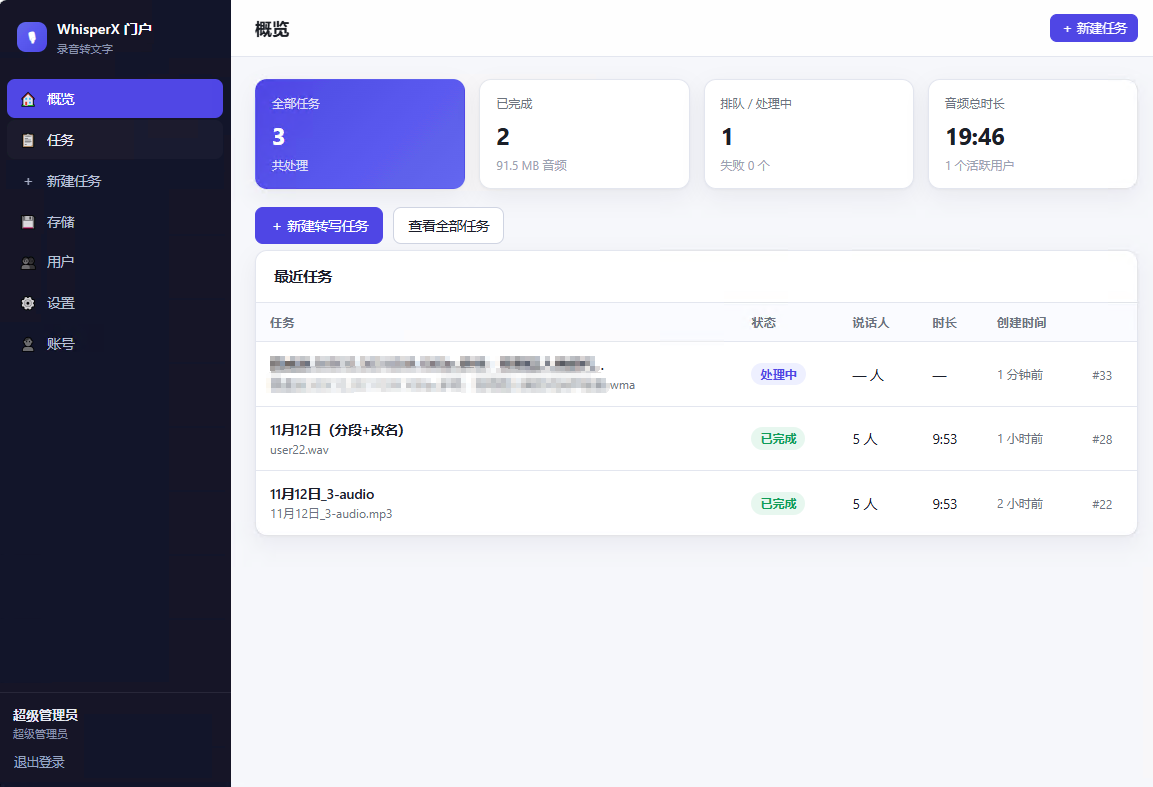
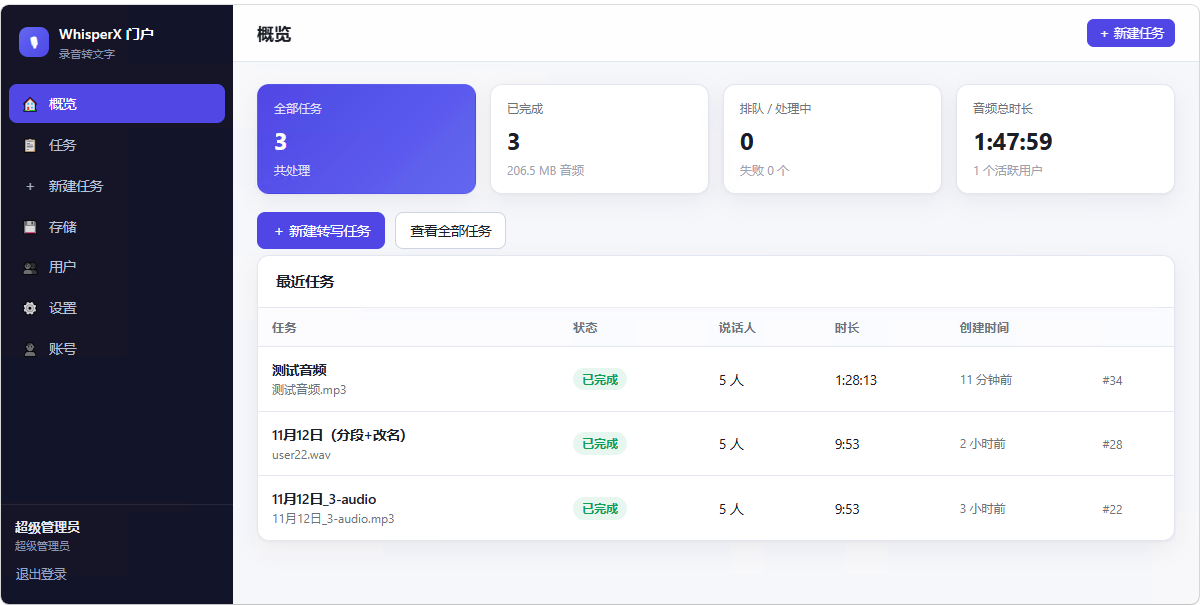
docs: 补全 8 个页面的界面截图并重写预览章节
覆盖概览、任务列表、新建任务、转写结果、修改说话人名字、
存储管理、用户管理、系统设置，按使用流程组织。

转写结果一张换成完整转写后的效果（1:28 音频 / 561 段 / 5 人），
能看出播放条、说话人筛选、发言占比和带标点的转写文本。

diff --git a/README.md b/README.md
@@ -63,18 +63,66 @@ npm start
 | **设置** | ASR 地址、默认模型、术语词典、存储配额（管理员） |
 | **账号** | 改自己的密码 |
 
+## 界面预览
+
 ### 概览
 
-任务统计、累计音频时长，以及最近的任务列表。
+任务总数、累计音频时长、排队/失败情况，以及最近的任务。
 
-![概览页](docs/images/dashboard.png)
+![概览](docs/images/dashboard.png)
 
-### 任务详情
+### 任务列表
 
-顶部是播放条，与下方文字双向联动：播放时自动高亮当前句并滚动跟随，
-点任意一句从那里开始播放。左侧按说话人筛选，右侧看每人的发言占比。
+一个录音一个任务。可按状态筛选，搜索标题、文件名或转写内容。
+处理中的任务直接在列表里显示进度条。
 
-![任务详情](docs/images/task-detail.png)
+![任务列表](docs/images/tasks.png)
+
+### 新建任务
+
+拖拽上传，**「区分说话人」默认勾选**。可以指定最少/最多人数提高分离准确率，
+也可以选语言和模型，填热词和提示词。
+
+![新建任务](docs/images/new-task.png)
+
+### 转写结果
+
+这是主界面：
+
+- **顶部播放条**与下方文字双向联动 —— 播放时自动高亮当前句并滚动跟随，
+  点任意一句从那里开始播放；进度条可直接拖动，支持 ±10 秒
+- **左侧**按说话人筛选，每个标签显示该人的发言时长和字数；
+  点说话人名字可直接改名
+- **右侧**是发言占比、任务信息和导出按钮
+- 转写文本按停顿断句并补标点，长时间轴也能读
+
+![转写结果](docs/images/task-detail.png)
+
+### 修改说话人名字
+
+点标签里的 ✎ 或文字里的说话人名字，只改这一个人。
+改完在对话视图、筛选标签、发言统计和导出的 SRT/TXT 里都会用新名字。
+
+![修改说话人名字](docs/images/rename-speaker.png)
+
+### 存储管理
+
+音频占用、磁盘剩余、容量配额，以及没有被任何任务引用的「孤立文件」清理。
+
+![存储](docs/images/storage.png)
+
+### 用户管理
+
+管理员可以新建、编辑、禁用用户，重置密码，查看每人占用的空间。
+
+![用户管理](docs/images/users.png)
+
+### 系统设置
+
+配置 ASR 服务地址和超时、新任务的默认值、存储配额，以及转写结果的修正规则
+（术语词典、繁转简、停顿补标点）。
+
+![系统设置](docs/images/settings.png)
 
 ## 功能
 
